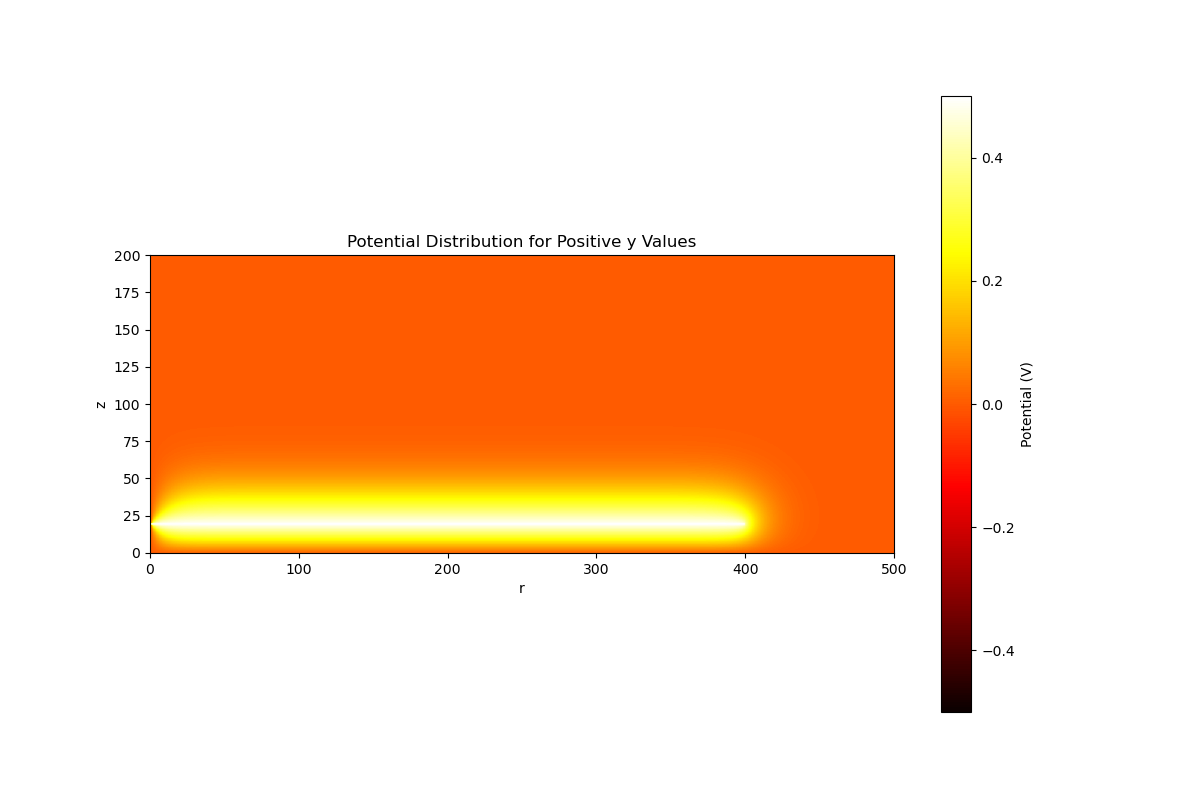
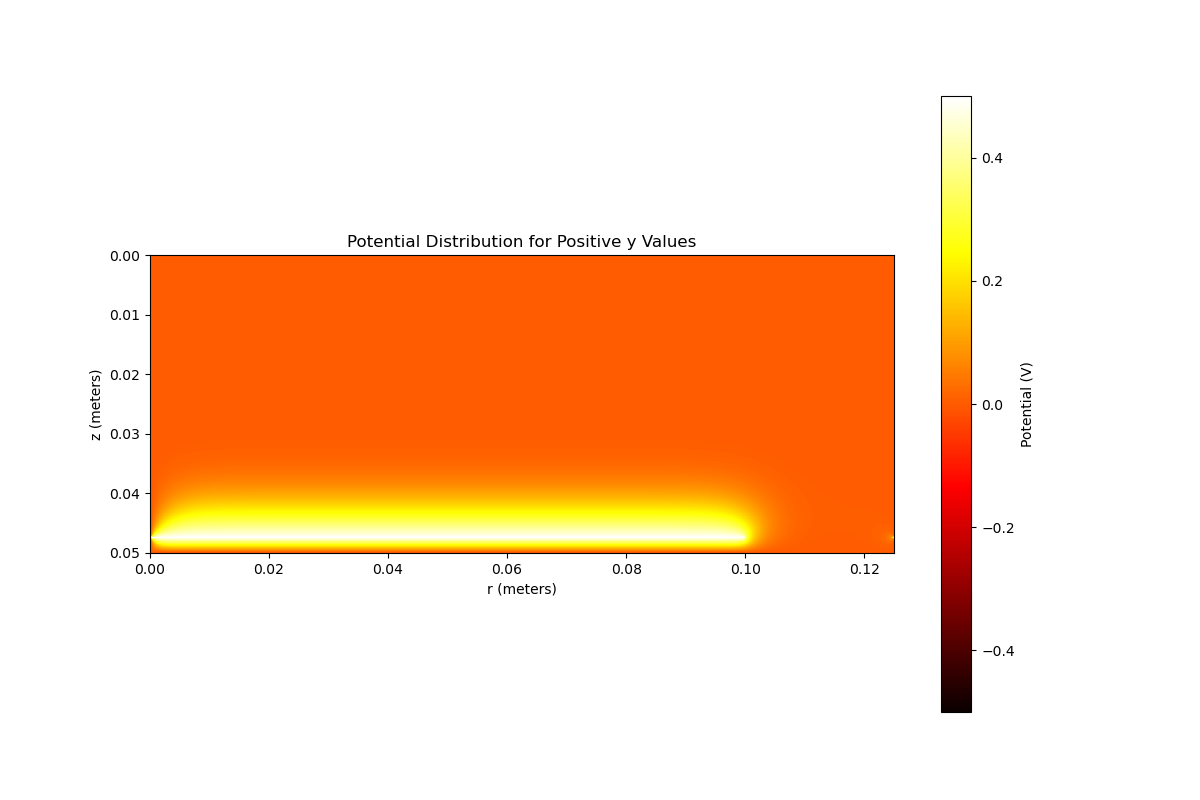
Fixes

diff --git a/relaxsation_method_numeric_execrsise/relaxation_method_chatgpt.py b/relaxsation_method_numeric_execrsise/relaxation_method_chatgpt.py
@@ -5,15 +5,16 @@ from numba import jit
 import matplotlib.animation as animation
 
 # Parameters
-GRID_LENGTH = 500
-GRID_WIDTH = 200
-STEP_SIZE = 0.025
+GRID_LENGTH = 0.125  # meters
+GRID_WIDTH = 0.05  # meters
+STEP_SIZE = 0.00025  # meters
 REQUIRED_PRECISION = 0.0001
 MAX_ITERATIONS = 10_000
-TOP_PLATE_POTENTIAL = -0.5
-BOTTOM_PLATE_POTENTIAL = 0.5
-PLATE_OFFSET = 20
-X_MAX_OF_DISK = 400
+TOP_PLATE_POTENTIAL = 0.5
+BOTTOM_PLATE_POTENTIAL = -0.5
+PLATE_OFFSET = 0.0025  # meters
+X_MAX_OF_DISK = 0.1  # meters
+
 
 class PotentialGrid:
     def __init__(self, length, width, step_size, top_potential, bottom_potential, plate_offset):
@@ -26,20 +27,29 @@ class PotentialGrid:
         self.grid = self.initialize_grid()
 
     def initialize_grid(self):
-        grid = np.zeros((self.length + 1, 2 * self.width + 1))
-        grid[:X_MAX_OF_DISK, self.width + self.plate_offset] = self.top_potential
-        grid[:X_MAX_OF_DISK, self.width - self.plate_offset] = self.bottom_potential
+        # Convert dimensions to grid indices
+        length_idx = int(self.length / self.step_size)
+        width_idx = int(self.width / self.step_size)
+        grid = np.zeros((length_idx + 1, 2 * width_idx + 1))
+
+        top_plate_y = width_idx + int(self.plate_offset / self.step_size)
+        bottom_plate_y = width_idx - int(self.plate_offset / self.step_size)
+
+        grid[:, top_plate_y] = self.top_potential
+        grid[:, bottom_plate_y] = self.bottom_potential
         return grid
 
+
 @jit(nopython=True)
-def numba_relax_potential(grid, length, width, step_size, precision, max_iterations, plate_offset):
+def numba_relax_potential(grid, length_idx, width_idx, step_size, precision, max_iterations, plate_offset_idx):
     grids = []
     for iteration in range(max_iterations):
         max_diff = 0
         new_grid = grid.copy()
-        for x in range(1, length):
-            for y in range(1, 2 * width):
-                if (y == width + plate_offset or y == width - plate_offset) and x < 400:
+        for x in range(1, length_idx):
+            for y in range(1, 2 * width_idx):
+                if (y == width_idx + plate_offset_idx or y == width_idx - plate_offset_idx) and x < int(
+                        X_MAX_OF_DISK / step_size):
                     continue
                 new_grid[x, y] = 0.25 * (
                         grid[x + 1, y] * (1 + step_size / (2 * (x if x != 0 else 1))) +
@@ -57,6 +67,7 @@ def numba_relax_potential(grid, length, width, step_size, precision, max_iterati
         print("Did not converge within the maximum number of iterations")
     return grids
 
+
 class RelaxationSolver:
     def __init__(self, potential_grid, precision, max_iterations):
         self.potential_grid = potential_grid
@@ -64,15 +75,19 @@ class RelaxationSolver:
         self.max_iterations = max_iterations
 
     def relax_potential(self):
+        length_idx = int(self.potential_grid.length / self.potential_grid.step_size)
+        width_idx = int(self.potential_grid.width / self.potential_grid.step_size)
+        plate_offset_idx = int(self.potential_grid.plate_offset / self.potential_grid.step_size)
         return numba_relax_potential(
             self.potential_grid.grid,
-            self.potential_grid.length,
-            self.potential_grid.width,
+            length_idx,
+            width_idx,
             self.potential_grid.step_size,
             self.precision,
             self.max_iterations,
-            self.potential_grid.plate_offset
+            plate_offset_idx
         )
+
 
 class PotentialPlotter:
     def __init__(self, potential_grid, grids):
@@ -82,8 +97,8 @@ class PotentialPlotter:
     def plot_potential(self):
         plt.figure(figsize=(12, 8))
         plt.title("Potential Distribution Around the Board Capacitor")
-        plt.xlabel("x")
-        plt.ylabel("y")
+        plt.xlabel("x (meters)")
+        plt.ylabel("y (meters)")
         plt.gca().invert_yaxis()
         plt.imshow(
             self.potential_grid.grid.T,
@@ -94,45 +109,57 @@ class PotentialPlotter:
         plt.colorbar(label='Potential (V)')
         plt.show()
 
-    def plot_negative_y_values(self):
-        fig, ax = plt.subplots(figsize=(12, 8))
-        im = ax.imshow(
-            self.potential_grid.grid[:, self.potential_grid.width:].T,
-            extent=[0, self.potential_grid.length, 0, self.potential_grid.width - 300],
-            cmap='hot',
-            norm=mcolors.Normalize(vmin=-0.5, vmax=0.5)
-        )
-        ax.set_title("Potential Distribution for Negative y Values")
-        ax.set_xlabel("x")
-        ax.set_ylabel("y")
-        plt.colorbar(im, ax=ax, orientation='vertical', label='Potential (V)')
-        plt.show()
-
     def plot_positive_y_values(self):
         fig, ax = plt.subplots(figsize=(12, 8))
         im = ax.imshow(
-            self.potential_grid.grid[:, :self.potential_grid.width].T,
+            self.potential_grid.grid[:, int(self.potential_grid.width / self.potential_grid.step_size):].T,
             extent=[0, self.potential_grid.length, 0, self.potential_grid.width],
             cmap='hot',
             norm=mcolors.Normalize(vmin=-0.5, vmax=0.5)
         )
         ax.set_title("Potential Distribution for Positive y Values")
-        ax.set_xlabel("r")
-        ax.set_ylabel("z")
+        ax.set_xlabel("r (meters)")
+        ax.set_ylabel("z (meters)")
+        ax.invert_yaxis()  # Ensure y-axis is inverted correctly
         plt.colorbar(im, ax=ax, orientation='vertical', label='Potential (V)')
+        plt.savefig("Potential Distribution for Positive y Values.png")
+        plt.show()
+
+
+    def plot_negative_y_values(self):
+        fig, ax = plt.subplots(figsize=(12, 8))
+        im = ax.imshow(
+            self.potential_grid.grid[:, :int(self.potential_grid.width / self.potential_grid.step_size)].T,
+            extent=[0, self.potential_grid.length, -self.potential_grid.width, 0],
+            cmap='hot',
+            norm=mcolors.Normalize(vmin=-0.5, vmax=0.5)
+        )
+        ax.set_title("Potential Distribution for Negative y Values")
+        ax.set_xlabel("r (meters)")
+        ax.set_ylabel("z (meters)")
+        ax.invert_yaxis()  # Ensure y-axis is inverted correctly
+        plt.colorbar(im, ax=ax, orientation='vertical', label='Potential (V)')
+        plt.savefig("Potential Distribution for Negative y Values.png")
         plt.show()
 
     def plot_vertical_line_at_x0(self):
-        # Compute the y-values to match the grid's vertical axis
-        y_values = np.linspace(-self.potential_grid.length, self.potential_grid.length, self.potential_grid.grid.shape[1])
+        # Convert the grid indices to physical dimensions
+        length_idx = int(self.potential_grid.length / self.potential_grid.step_size)
+        width_idx = int(self.potential_grid.width / self.potential_grid.step_size)
+        plate_offset_idx = int(self.potential_grid.plate_offset / self.potential_grid.step_size)
 
-        # Extract potential values from the grid at x = 0
+        # Extract the potential values along the vertical line at x = 0
         potential_values = self.potential_grid.grid[1, :]
+        import pandas as pd
+        pd.DataFrame(potential_values).to_excel("potential_data.xlsx")
+        # Create corresponding y-values
+        y_values = np.linspace(-self.potential_grid.width, self.potential_grid.width, len(potential_values))
+
         plt.figure(figsize=(12, 8))
         plt.plot(potential_values, y_values, label="Potential at x = 0", color='b')
         plt.title("Potential Distribution at x = 0")
         plt.xlabel("Potential (V)")
-        plt.ylabel("y")
+        plt.ylabel("y (meters)")
         plt.grid(True)
         plt.axhline(0, color='black', linewidth=0.5)
         plt.legend()
@@ -141,8 +168,8 @@ class PotentialPlotter:
     def animate_potential(self):
         fig, ax = plt.subplots(figsize=(12, 8))
         ax.set_title("Potential Distribution Around the Board Capacitor")
-        ax.set_xlabel("x")
-        ax.set_ylabel("y")
+        ax.set_xlabel("x (meters)")
+        ax.set_ylabel("y (meters)")
         ax.invert_yaxis()
 
         im = ax.imshow(
@@ -158,7 +185,12 @@ class PotentialPlotter:
             return [im]
 
         ani = animation.FuncAnimation(fig, update, frames=len(self.grids), blit=True, interval=50)
+
+        # Save as Video
+        ani.save('potential_animation.mp4', writer='ffmpeg')
+
         plt.show()
+
 
 def main():
     potential_grid = PotentialGrid(
